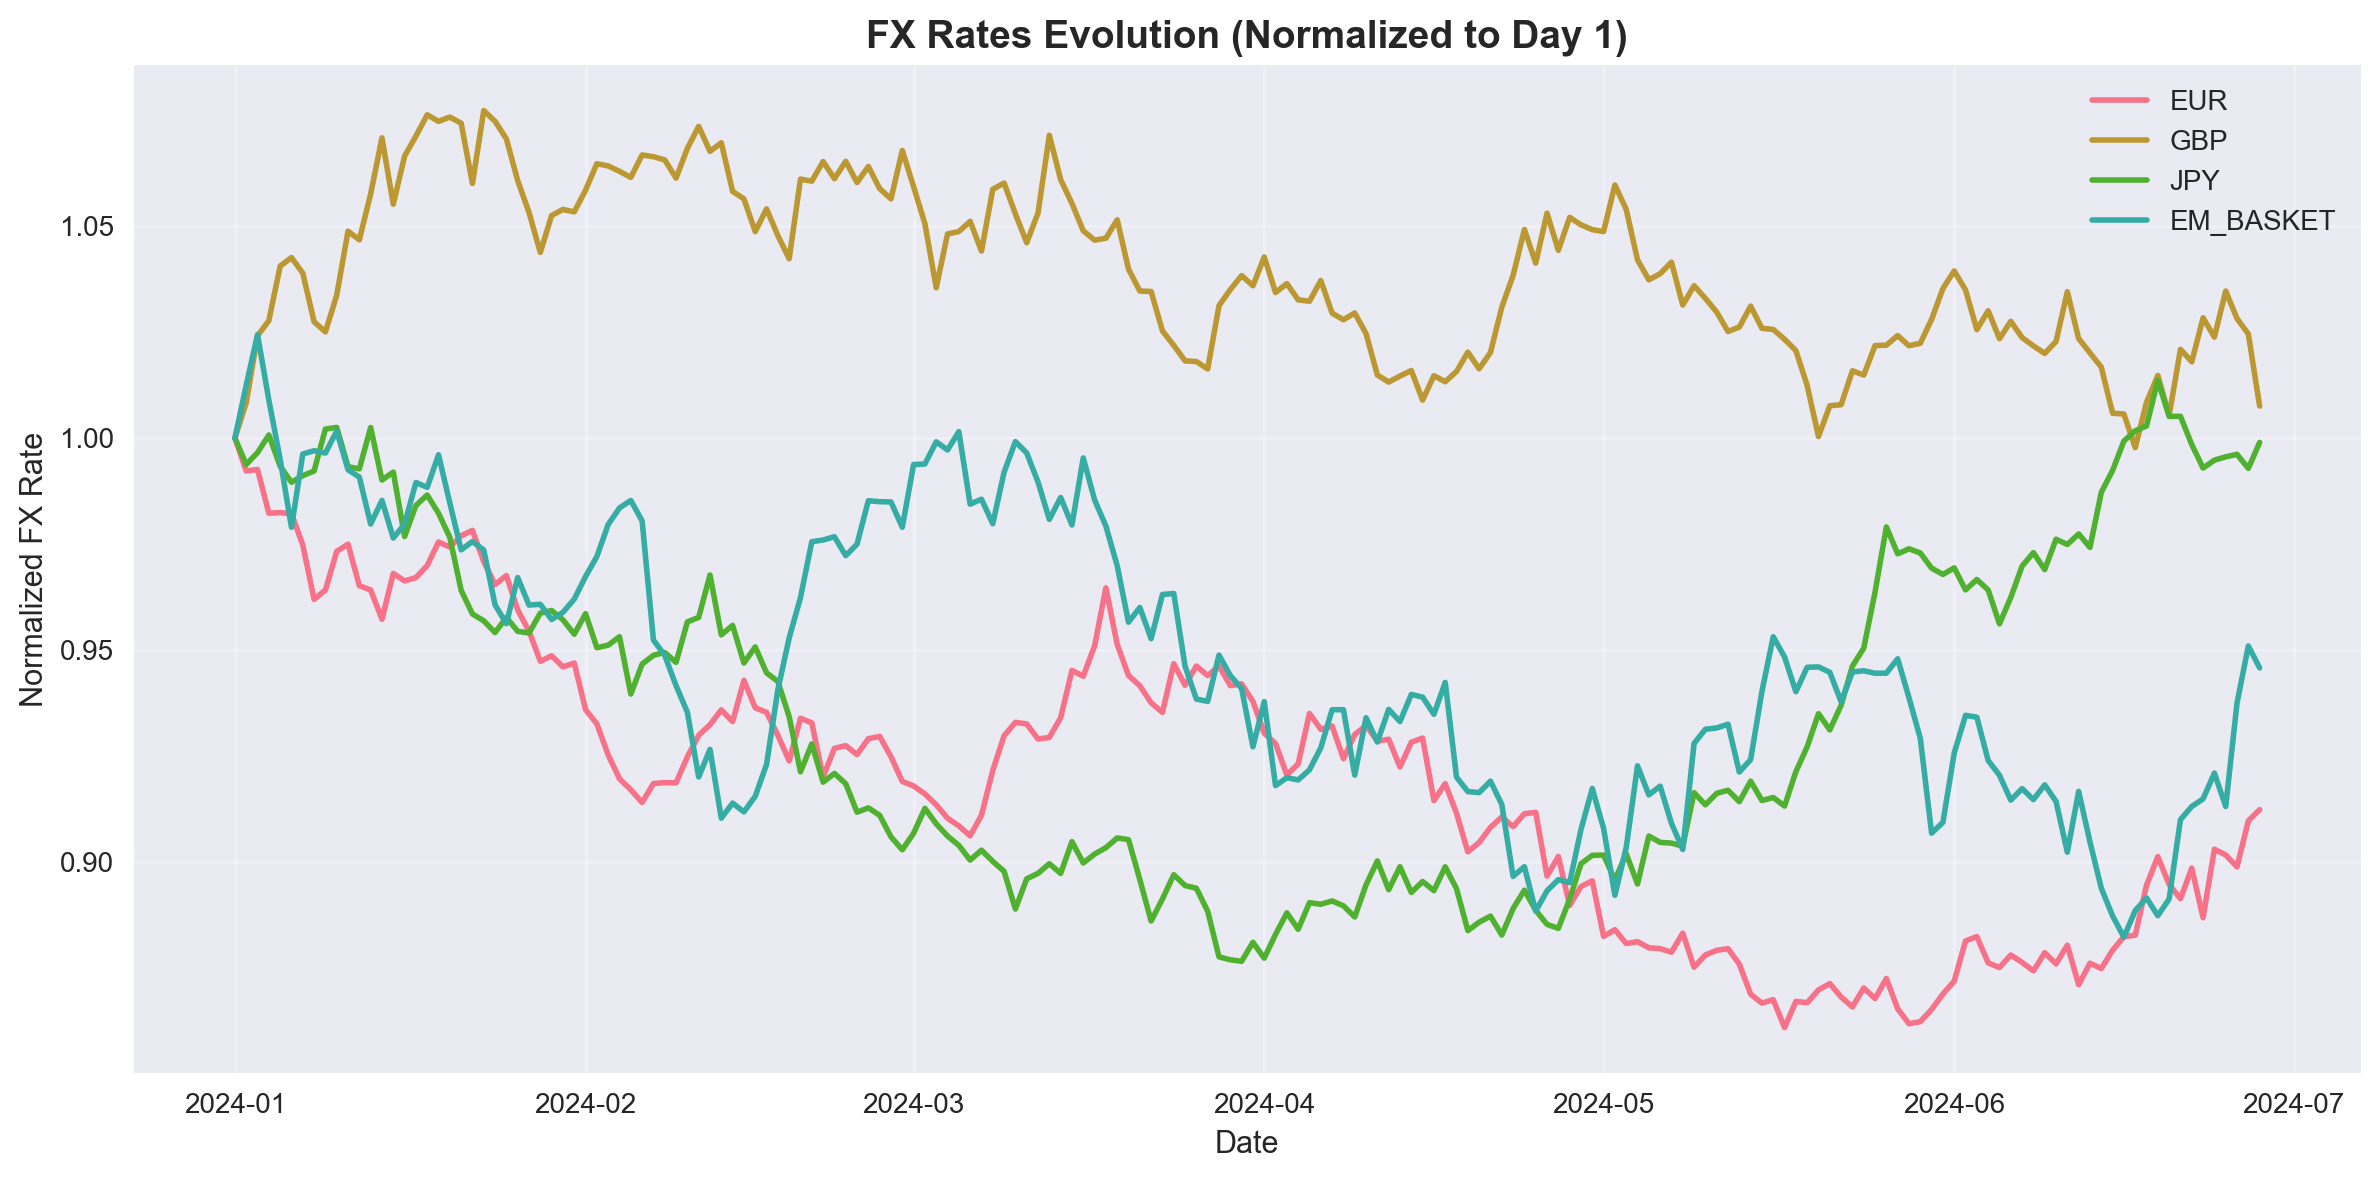
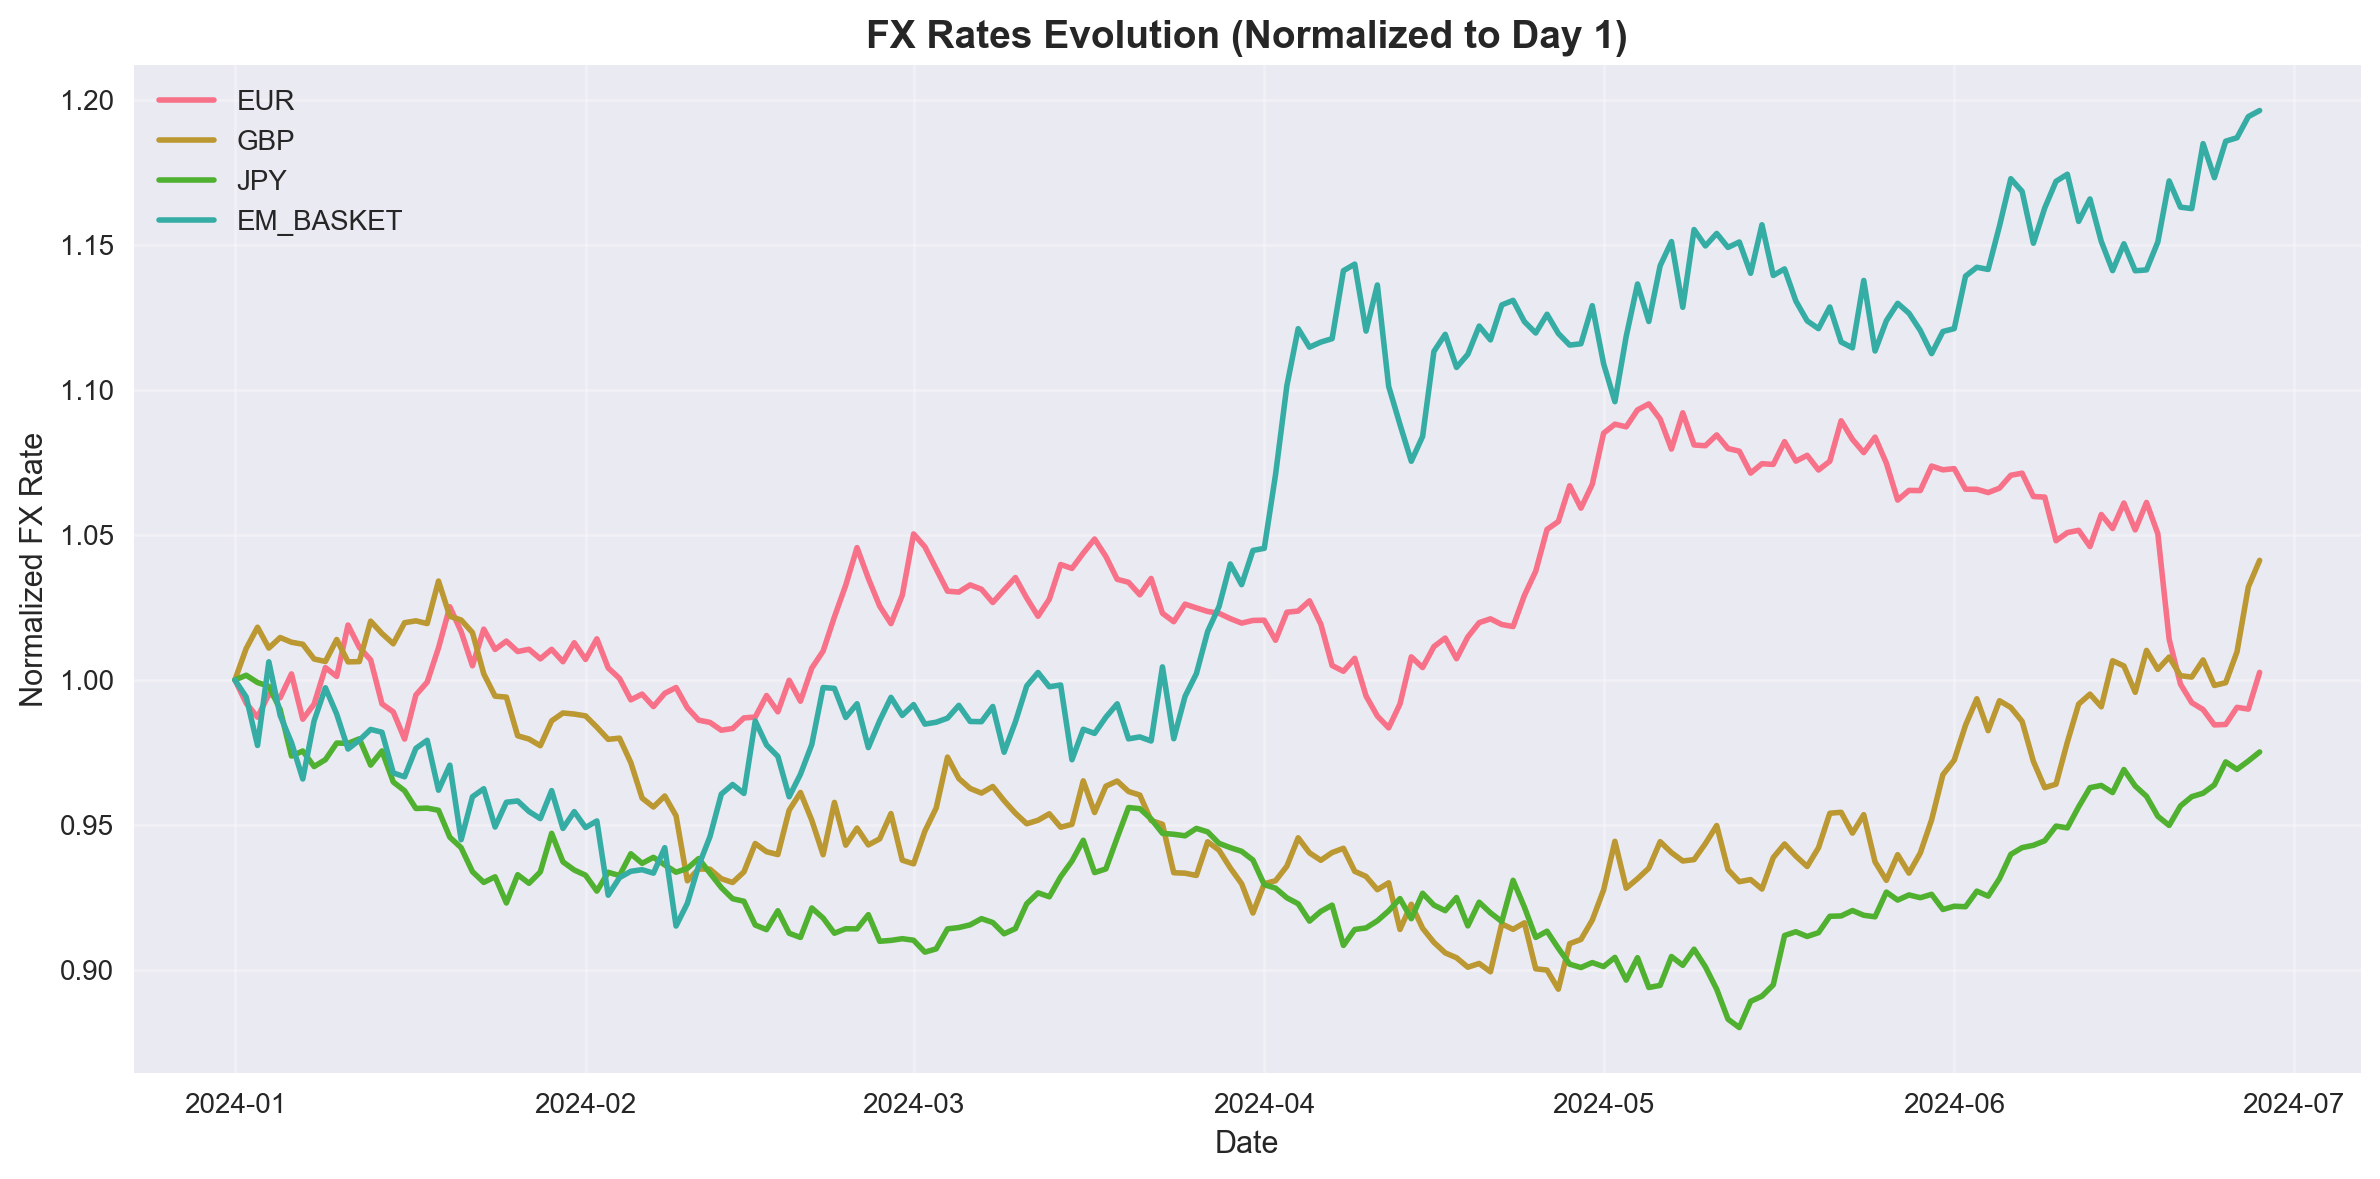
update

diff --git a/generate_charts.py b/generate_charts.py
@@ -31,15 +31,15 @@ INITIAL_PORTFOLIO_VALUE = 100_000_000
 # Currency parameters
 currency_params = {
     'USD': {'initial_rate': 1.0000, 'annual_vol': 0.00, 'drift': 0.0000},
-    'EUR': {'initial_rate': 1.10, 'annual_vol': 0.10, 'drift': -0.001},  # round numbers from research
-    'GBP': {'initial_rate': 1.25, 'annual_vol': 0.12, 'drift': -0.001},
+    'EUR': {'initial_rate': 1.10, 'annual_vol': 0.12, 'drift': -0.001},  # round numbers from research
+    'GBP': {'initial_rate': 1.25, 'annual_vol': 0.14, 'drift': -0.001},
     'JPY': {'initial_rate': 0.007, 'annual_vol': 0.10, 'drift': -0.0005},  # roughly 140 USD/JPY
-    'EM_BASKET': {'initial_rate': 0.85, 'annual_vol': 0.15, 'drift': -0.002}  # EM usually more volatile
+    'EM_BASKET': {'initial_rate': 0.85, 'annual_vol': 0.20, 'drift': -0.002}  # EM usually more volatile
 }
 
 # Portfolio weights - looked up some global portfolio allocations online
 portfolio_weights = {
-    'USD': 0.50, 'EUR': 0.20, 'GBP': 0.10, 'JPY': 0.15, 'EM_BASKET': 0.05
+    'USD': 0.43, 'EUR': 0.20, 'GBP': 0.10, 'JPY': 0.15, 'EM_BASKET': 0.12
 }
 
 def generate_fx_rates(currencies, params, days, start_date):
